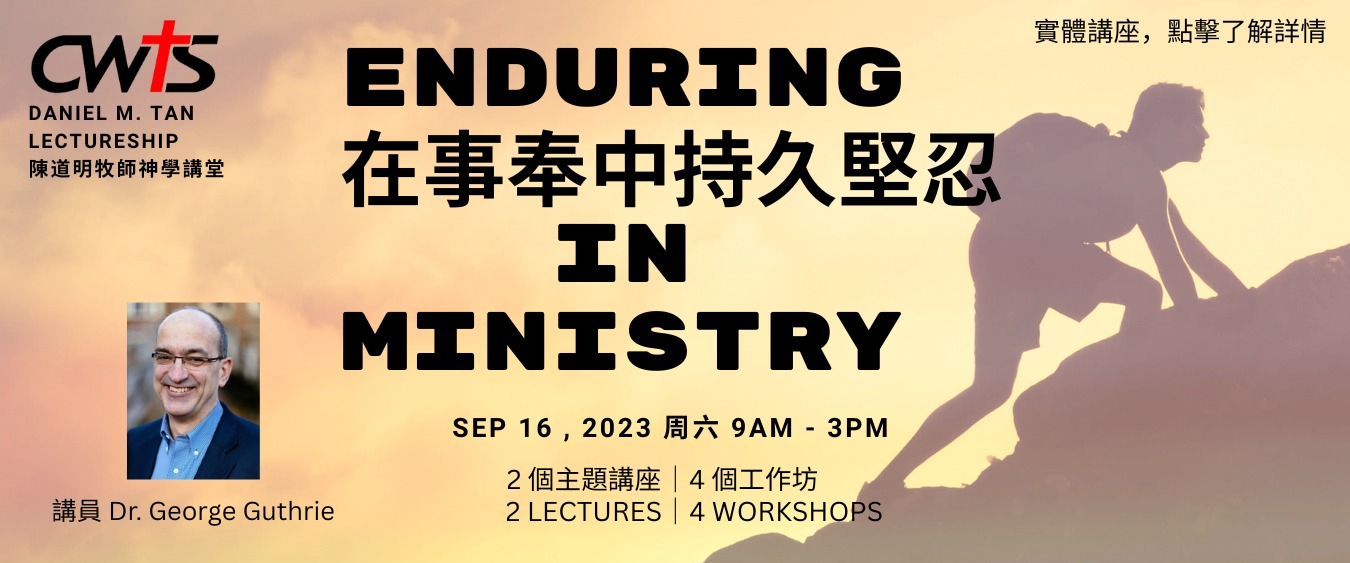
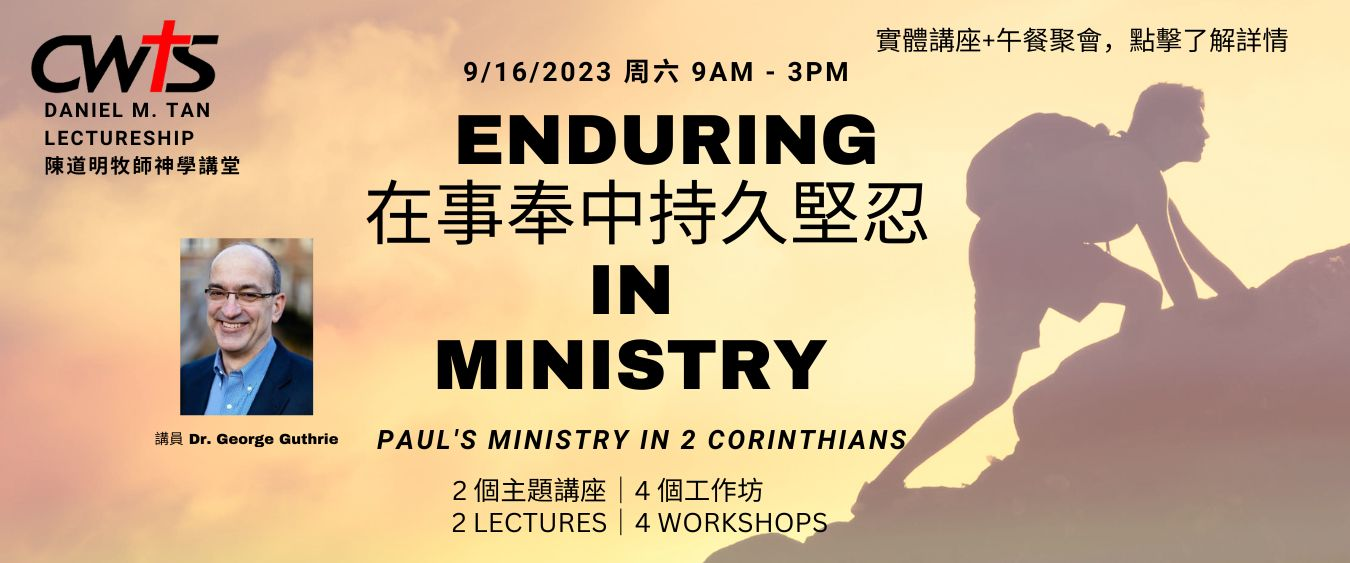
update lectureship contents
1. update new banner
2. update contents on lectureship page

Changed region(s): [[0.0311, 0.0302, 0.9956, 0.9361], [0.28, 0.7247, 0.6844, 0.9663], [0.0, 0.1812, 0.1867, 0.3321]]

diff --git a/src/content/pages/zh/news-events/tan-lectureship.md b/src/content/pages/zh/news-events/tan-lectureship.md
@@ -16,36 +16,41 @@ thumbnail: "/images/covers/news-events/tan-lectureship.thumbnail.jpg"
 
 ![Lectureship Banner](/images/lectureship/lectureship-banner.jpg)
 
-## 2023 “陳道明牧師”神學講堂
+## 2023年度 “陳道明牧師”神學講堂
+## 2023 Daniel M. Tan Lectureship
 
-## [我要報名](https://form.jotform.com/231735818149160)
+<strong> 2堂主題信息4個工作坊 </strong>
 
-時間: 2023 年 9 月 16 日 星期六 9am - 3pm
+## [<strong> 我要報名 </strong>](https://form.jotform.com/231735818149160)
 
+時間: 9/16 Saturday 9:00 am - 3:00 pm\
 地點：基神本部\
 [1975 Concourse Dr.\
 San Jose, CA 95131](https://goo.gl/maps/Gi57SXut58CT5Ui38)
 
-主題講員: Dr. George Guthrie
-
-主題信息: Enduring in Ministry 在事奉中持久堅忍
-
-講座1:
-
-講座2:
+<strong> 主題講員: Dr. George Guthrie </strong> \
+<strong> 主題信息: Enduring in Ministry 在事奉中持久堅忍 （兩堂講座）</strong>
 
 </div>
-講員簡介:
+<strong> 講員簡介: </strong>
 
 Dr. George Guthrie 現擔任Regent College新約教授，是一位備受尊敬和喜愛的講師。他曾先後獲得文學學士（Union大學），道學碩士（西南浸信會神學院），神學碩士（Trinity福音神學院），哲學博士（西南浸信會神學院）。在北美以及東亞、英國、德國、南非和以色列等地教授過課程。在2018年加入裡根學院之前，Dr.Guthrie 在 Union University in Jackson 任教28年。作為《希伯來書》的權威專家，Dr. Guthrie 研究成果被出版為《希伯來書的結構：一種文本語言學分析》（Leiden/New York: E.J. Brill, 1994）。他還出版了《希伯來書》（Zondervan, 1998; 2002, 2007）、《雅各書》（Zondervan, 2006）和《哥林多後書》（Baker, 2015）的註釋，以及眾多文章、書籍章節和書評。也曾在ESV、CSV、NLT和HCSB等譯本的翻譯工作中擔任顧問。Dr. Guthrie 熱心於裝備教會領袖和信徒們，如何更有效地閱讀聖經和活出真理。為此，他出版了一系列旨在幫助教會更好地理解和應用聖經的著作，包括《讀者指南聖經》（LifeWay, 2011）、《閱讀上帝的故事：一本按時間順序的每日聖經》（Broadman & Holman, 2011）、《活出聖經：你的理解和生活上帝的話語指南》（Broadman & Holman, 2011）和《CSB按天順序讀經聖經》（Holman, 2018）。Dr. Guthrie夫婦現居住在不列顛哥倫比亞省， 並忠心的以教導和愛心接待肢體來事奉Regent College。他們喜好園藝和釣魚。他們有兩個已經成年的孩子住在田納西州。
 
-工作坊一： 蔡明謀 牧師/ 博士（基督工人神學院 院長/新約副教授）
+<strong> 工作坊一 ：蔡明謀 牧師/ 博士（基督工人神學院 院長/新約副教授）</strong> \
+保羅書信中的信心與堅毅：在教導中取得平衡 \
+“Faith and Perseverance in Paul: Achieving Balance in Our Teaching” 
 
-工作坊二： 賴可中 牧師/博士（基督工人神學院 副院長/新約副教授）
+<strong> 工作坊二： 賴可中 牧師/博士（基督工人神學院 副院長/新約副教授）</strong> \
+事奉疲倦與重新得力 \
+“Ministry Fatigue and Renewing Strength” 
 
-工作坊三： 陳聲漢博士（基督工人神學院神學碩士科主任，舊約教授）
+<strong> 工作坊三： 陳聲漢博士（基督工人神學院神學碩士科主任，舊約教授）</strong> \
+知識是叫人自高自大 (林前 8:1)? 《屬靈人》、《水牛神學》和'野豬’之間關於知識與理性的對話 \
+“Knowledge Puffs Up (1 Cor 8:1)? A Conversation between _A Spiritual Man_, _Water Buffalo Theology_, and a ‘Wild Boar’ on Knowledge and the Mind”
 
-工作坊四： 劉浩宇博士（基督工人神學院 實踐神學副教授）
+<strong> 工作坊四： 劉浩宇博士（基督工人神學院 實踐神學副教授）</strong> \
+懺，憶，休：跑得更遠的節奏 \
+“Repent, Remember, & Rest: Rhythms for Running the Distance”
 
 ### 當天的具體時間安排:
 
